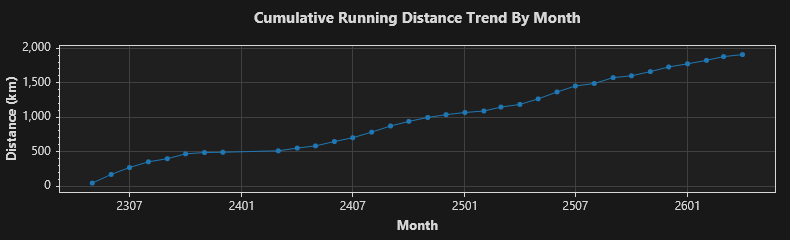
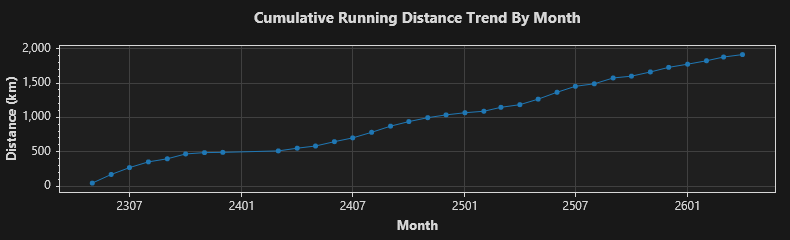
2026/4/22 跑步 6.02 公里

diff --git a/trend.md b/trend.md
@@ -1,4 +1,4 @@
-### Total: 326 days, 1908.62 km.
+### Total: 327 days, 1914.64 km.
 
 
 ![Monthly](https://github.com/prime167/MyRunningLog/blob/main/data/CumulativeTrendByMonth.png)
